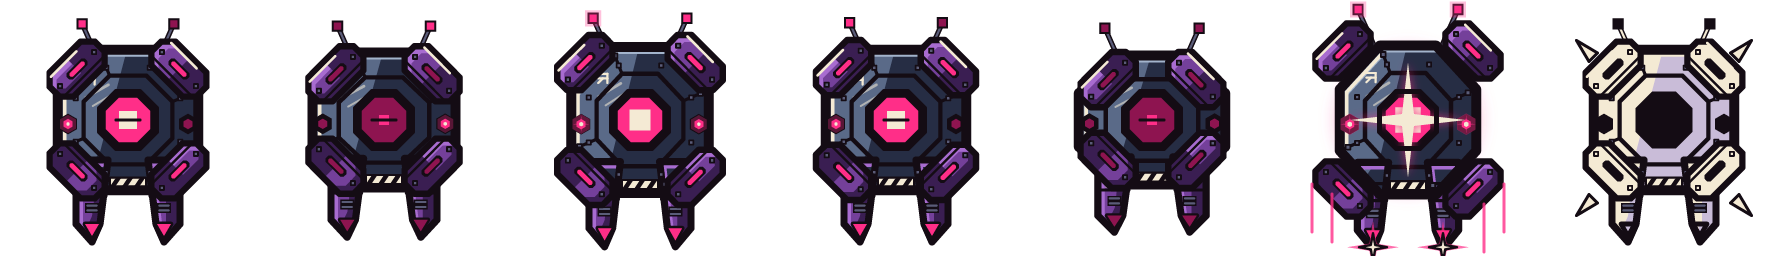
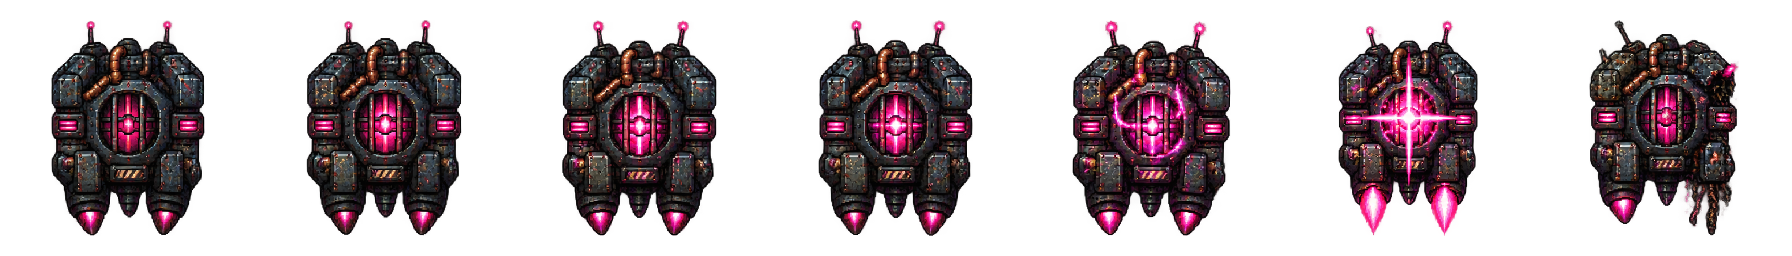
art: install rugged space_big Bastion strip
Install Codex's uncommitted rugged neon-pixel strip (1792x256, seven
256 px cells) over the flat-ink Bastion, byte-identical to the candidate
in the art/space-big-rugged worktree. Import settings unchanged: the
.meta already matches the installed rugged enemies.

Pixel audit: real alpha, transparent background, no pixels within 20 px
of any cell edge, nothing near the cell seams, idle cells share one
anchor and scale. Not verified in-engine here.

diff --git a/docs/art-production-queue.md b/docs/art-production-queue.md
@@ -33,7 +33,7 @@ Every numbered line is a separate commit/merge unit unless it explicitly says
 16. **Installed and validated — `frost_chaser`:** Frost Lancer rebuilt as a rime-armored copper pursuit lance with a cyan cryo core; native seven-cell QA complete.
 17. **Installed and validated — `verdant_chaser`:** Dragonsting rebuilt as a thorn-leaf steel stinger with copper roots, resin sac, and toxic core; native seven-cell QA complete.
 18. **Installed and validated — `ember_chaser`:** rugged forge-hound chaser with contained furnace jaw, copper loopwork, and safe seven-cell motion strip.
-19. **Queued — `space_big`**
+19. **Installed — `space_big`:** Bastion rebuilt as a rugged gunmetal armoured block with a caged magenta reactor core, copper conduit, twin antennae, and twin thrusters; seven-cell strip pixel-audited for alpha, cell margins (20 px minimum), and idle continuity, and roster-validated in the source worktree; in-engine review of the installed strip is pending, and the second tell cell and hit cell draw the hull about 9% and 5% smaller than idle.
 20. **Queued — `frost_big`**
 21. **Queued — `verdant_big`**
 22. **Queued — `ember_big`**
